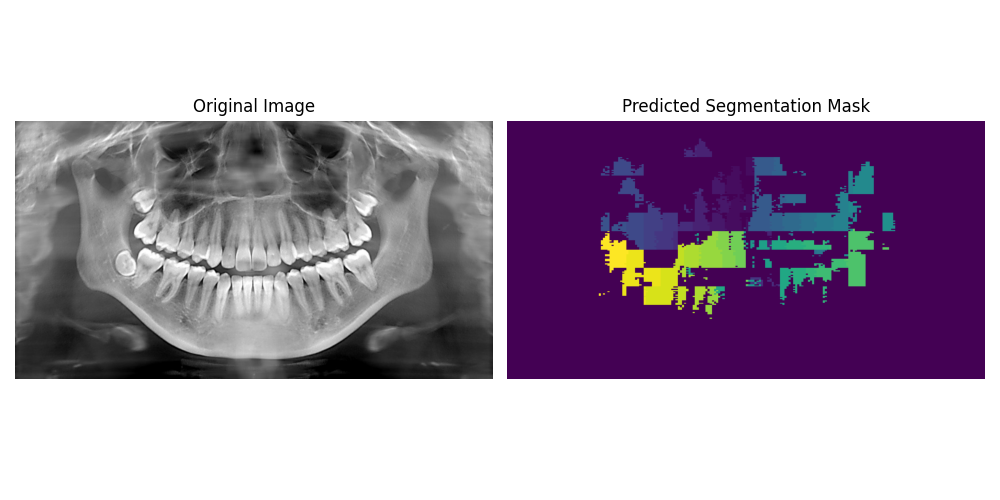
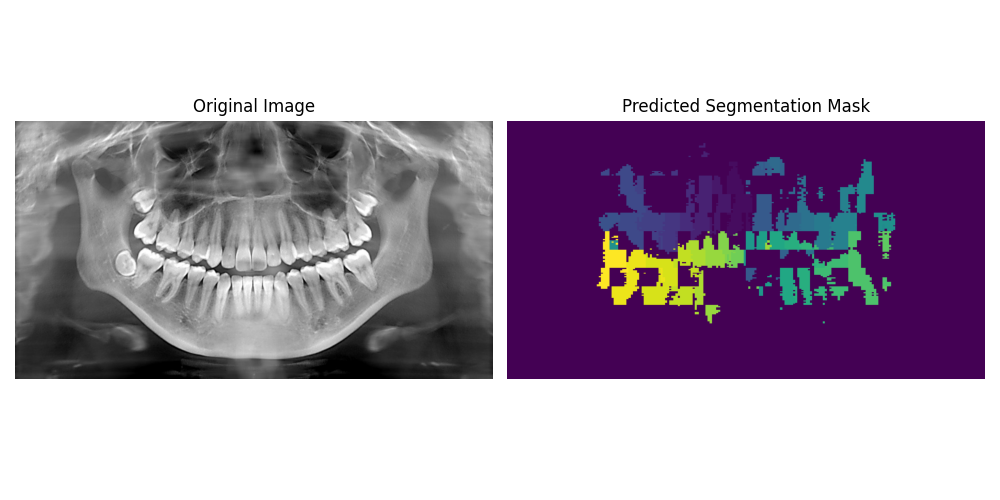
readme update

Changed region(s): [[0.589, 0.27, 0.899, 0.63]]

diff --git a/ViTSegmentor.py b/ViTSegmentor.py
@@ -146,9 +146,9 @@ if __name__ == "__main__":
 
     # training loop
     loss = CrossEntropyLoss(ignore_index=-1)
-    optimizer = Adam(model.parameters(),lr=0.0001)
+    optimizer = Adam(model.parameters(),lr=0.00007)
 
-    for epoch in range(2000):
+    for epoch in range(10000):
         for inputs, targets in dataloader:
             inputs = inputs.to(device)
             targets = targets.to(device)
@@ -162,7 +162,7 @@ if __name__ == "__main__":
 
         writer.add_scalar("Loss / train", loss_value.item(), epoch)
 
-        if epoch % 100 == 0:
+        if epoch % 500 == 0:
             print("Epoch ", epoch, " Loss ", loss_value.item())
         
             torch.save(model.state_dict(),'model\\vit_segmentation_epoch_'+str(epoch)+'.pth')

diff --git a/ViTInference.py b/ViTInference.py
@@ -11,7 +11,7 @@ device = torch.device('cuda' if torch.cuda.is_available() else 'cpu')
 
 # Load model
 model = VITSegmentor(num_classes=33).to(device)
-model.load_state_dict(torch.load('model\\vit_segmentation_epoch_1900.pth', map_location=device))
+model.load_state_dict(torch.load('model\\vit_segmentation_epoch_9500.pth', map_location=device))
 model.eval()
 
 # Load and preprocess image
